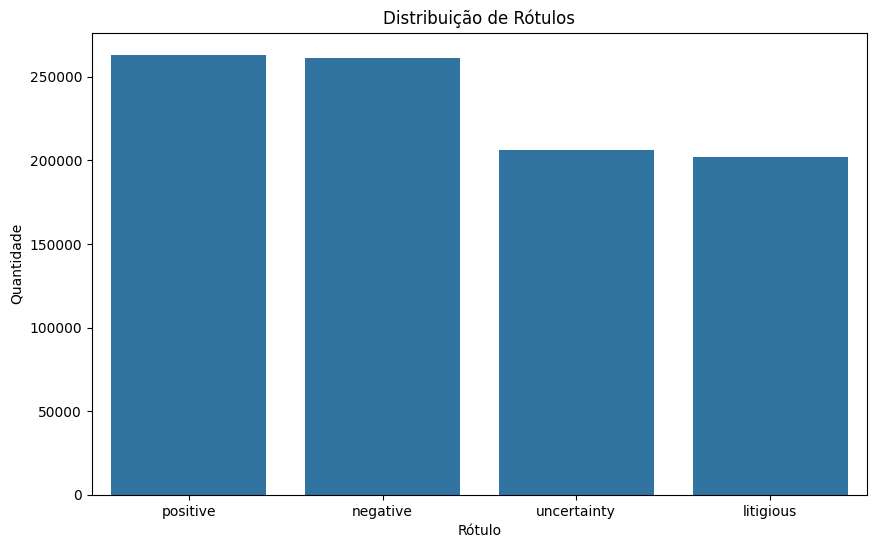
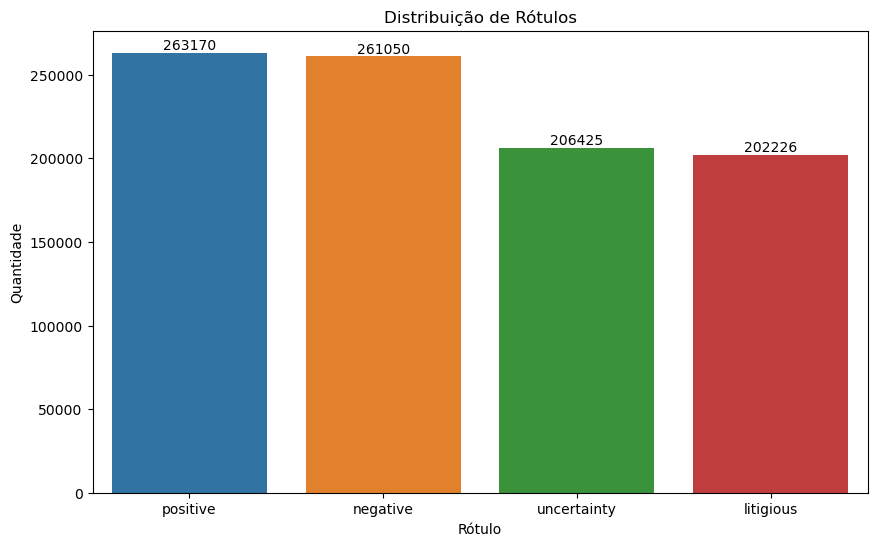
update section data clean and eda_00 classification graphics

diff --git a/docs/conhecendo-dados.md b/docs/conhecendo-dados.md
@@ -22,6 +22,47 @@ Abaixo está a estrutura do conjunto de dados:
 - A coluna **Label**, é responsável por categorizar os textos com seus respectivos sentimentos, possuímos 4 tipos de classificações possíveis, são elas:
 > `litigious`, `negative`, `positive` e     `uncertainty`.
 
+## Limpeza e Preparação dos Dados
+
+Antes de avançarmos com a análise, conduzimos uma etapa de pré-processamento dos dados, na qual removemos URLs, menções, hashtags e caracteres especiais dos textos usando expressões regulares.
+
+```python 
+# Aplicando a limpeza de texto na coluna 'Language'. Foram encontrados links de imagens, o que não é relevante para a análise
+df['Language'] = df['Language'].astype(str).apply(clean_text)
+
+df.drop(df[df['Language'].astype(str).apply(lambda x: len(x) > 3)].index, inplace=True)
+```
+
+> Uma expressão regular, também conhecida como regex, é uma sequência de caracteres que define um padrão de busca em textos. Ao usar expressões regulares, você pode realizar operações como encontrar padrões específicos em um texto, validar se uma string está formatada corretamente, extrair partes específicas de um texto, substituir partes de um texto por outras e muito mais.
+
+Adicionalmente, foi gerada uma nova coluna chamada `Clean_Text`, que contém o texto do Tweet limpo.
+
+```python 
+# Aplicando a limpeza de texto na coluna 'Text' para remover URLs, menções, hashtags, caracteres especiais e números
+df['Clean_Text'] = df['Text'].astype(str).apply(clean_text)
+```
+
+Além disso, tratamos valores ausentes na coluna `Language`, preenchendo-os com uma string vazia, e removemos duplicatas do conjunto de dados.
+
+```python 
+# Tratando valores ausentes na coluna 'Language', preenchendo com vazio ('') para evitar problemas na análise de texto
+df['Language'].fillna('', inplace=True)
+
+# Remoção de duplicatas
+df.drop_duplicates(inplace=True)
+```
+
+Como etapa adicional de engenharia de recursos, criamos duas novas colunas: `Text_Length` e `Word_Count`, que representam o comprimento do texto limpo e a contagem de palavras, respectivamente.
+
+```python 
+# Feature Engineering: Criando novas features com base no texto limpo 
+# Contagem de palavras e comprimento do texto
+df['Text_Length'] = df['Clean_Text'].apply(len)
+df['Word_Count'] = df['Clean_Text'].apply(lambda x: len(x.split()))  
+```
+
+Com o conjunto de dado, devidamente tratado, partimos para a etapa de análise do data set selecionado.
+
 ## Análise Univariada
 
 O gráfico abaixo ilustra a distribuição da quantidade de tweets por idioma, considerando os 5 idiomas com mais informações no conjunto de dados.
@@ -34,23 +75,10 @@ Para gerar essas informações, foi realizada a análise exploratório de dados(
 
 Esse método, consiste em se concentrar na análise de uma única variável por vez. Em outras palavras, ela examina as características e distribuição de uma variável isoladamente, sem considerar sua relação com outras variáveis. Neste caso, é utilizado a informação do idioma, para calcular sua respectiva quantidade de tweets.
 
-```
-Gráfico: Distribuição de Rótulos
-Tipo: Gráfico de barras
+Utilizando o mesmo processo de análise, o gráfico abaixo ilustra a distribuição dos rótulos no conjunto de dados.
 
-```
 ![Distribuição de Rótulos](img/distribuicao_rotulos.png)
-
-Este gráfico de barras apresenta a distribuição dos rótulos no conjunto de dados. Observamos que os rótulos estão relativamente equilibrados, com uma quantidade semelhante de tweets classificados como "positive", "negative", "litigious" e "uncertainty".
-
-
-## Limpeza e Preparação dos Dados
-
-Antes de prosseguir com a análise, realizamos uma etapa de limpeza e preparação dos dados. Removemos URLs, menções, hashtags e caracteres especiais dos textos, utilizando expressões regulares. Também criamos uma nova coluna `Clean_Text` contendo o texto limpo.
-
-Além disso, tratamos valores ausentes na coluna `Language`, preenchendo-os com uma string vazia, e removemos duplicatas do conjunto de dados.
-
-Como etapa adicional de engenharia de recursos, criamos duas novas colunas: `Text_Length` e `Word_Count`, que representam o comprimento do texto limpo e a contagem de palavras, respectivamente.
+>*Gráfico: Distribuição de Rótulos*
 
 ## Análise Bivariada
 
@@ -79,39 +107,6 @@ Para identificar outliers no comprimento dos textos, utilizamos os quantis 0.05 
 Identificamos 88.239 outliers com base no comprimento do texto. Ao analisar a distribuição desses outliers por rótulo, observamos que a maioria pertence às categorias "negative" e "positive".
 
 Posteriormente, removemos os outliers do conjunto de dados, mantendo apenas 5% dos dados com menor e maior comprimento de texto.
-
-## Análise de Balanceamento de Rótulos por Idioma
-
-Realizamos uma análise detalhada do balanceamento de rótulos por idioma, calculando a proporção de cada rótulo para cada idioma presente no conjunto de dados.
-
-Observamos que alguns idiomas apresentam uma distribuição relativamente equilibrada de rótulos, enquanto outros têm uma predominância significativa de um ou dois rótulos específicos. Essa análise pode ser importante para avaliar a necessidade de técnicas de balanceamento de dados ou estratégias de treinamento específicas para determinados idiomas.
-
-## Seleção de Dados para Análise Adicional
-
-Com base nos insights obtidos, decidimos focar nossa análise adicional apenas em postagens em inglês com rótulos "positive" e "negative". Essa escolha foi motivada por várias razões:
-
-1. **Padronização Linguística**: O inglês é amplamente utilizado em dados de mídia social e fornece uma base consistente para análise, minimizando a complexidade associada ao processamento de múltiplos idiomas.
-
-2. **Disponibilidade de Ferramentas**: Existem muitas bibliotecas e ferramentas de processamento de linguagem natural (PLN) otimizadas para o inglês, facilitando a aplicação de técnicas avançadas.
-
-3. **Análise de Sentimentos Claramente Definida**: Os rótulos "positive" e "negative" representam sentimentos claramente definidos e opostos, tornando-os ideais para uma análise de sentimentos binária.
-
-4. **Relevância e Aplicabilidade**: Focar em postagens positivas e negativas permite identificar tendências e padrões significativos no sentimento do público, o que é valioso para organizações e pesquisadores.
-
-Após a seleção, verificamos que o conjunto de dados filtrado contém 247.254 tweets positivos e 243.139 tweets negativos, representando um balanceamento adequado para a análise.
-
-## Remoção de Stopwords
-
-Como próxima etapa, removemos as stopwords em inglês dos textos limpos, utilizando a lista fornecida pela biblioteca NLTK. Essa etapa é importante para reduzir o ruído nos dados e focar nas palavras mais significativas.
-
-```
-Gráfico: Distribuição dos Sentimentos nos Textos em Inglês
-Tipo: Gráfico de barras
-
-```
-![Distribuição dos Sentimentos nos Textos em Inglês](img/distribuicao_sentimentos_textos_ingles.png)
-
-Este gráfico de barras reforça o balanceamento entre os rótulos "positive" e "negative" após a filtragem dos dados.
 
 ## Word Cloud
 
@@ -199,6 +194,10 @@ O gráfico de densidade complementa a análise do comprimento dos textos, fornec
 
 ## Descrição dos Achados
 
+Realizamos uma análise detalhada do balanceamento de rótulos por idioma, calculando a proporção de cada rótulo para cada idioma presente no conjunto de dados.
+
+Observamos que alguns idiomas apresentam uma distribuição relativamente equilibrada de rótulos, enquanto outros têm uma predominância significativa de um ou dois rótulos específicos. Essa análise pode ser importante para avaliar a necessidade de técnicas de balanceamento de dados ou estratégias de treinamento específicas para determinados idiomas.
+
 A partir da análise descritiva e exploratória realizada, destacamos os seguintes achados relevantes:
 
 1. O conjunto de dados original apresentava um equilíbrio razoável entre os diferentes rótulos ("positive", "negative", "litigious" e "uncertainty"), o que é uma característica desejável para a análise de sentimentos.
@@ -207,17 +206,23 @@ A partir da análise descritiva e exploratória realizada, destacamos os seguint
 
 3. Após a limpeza e preparação dos dados, identificamos outliers com base no comprimento do texto. Esses outliers foram removidos para evitar que influenciassem negativamente a análise.
 
-4. A análise de balanceamento de rótulos por idioma revelou que alguns idiomas apresentavam uma distribuição mais equilibrada, enquanto outros tinham uma predominância significativa de um ou dois rótulos específicos.
+4. A análise de balanceamento de rótulos por idioma revelou que alguns idiomas apresentavam uma distribuição mais equilibrada, enquanto outros tinham uma predominância significativa de um ou dois rótulos específicos. 
 
 5. Para a análise adicional, selecionamos tweets em inglês com rótulos "positive" e "negative", uma vez que esses rótulos representam sentimentos claramente definidos e opostos, além de facilitar o uso de ferramentas de PLN otimizadas para o inglês.
 
-6. As Word Clouds nos permitiram identificar visualmente as palavras mais proeminentes nos tweets positivos e negativos, fornecendo insights sobre os tópicos e contextos comuns em cada sentimento.
+6. A análise de frequência de palavras e bigramas complementou os insights obtidos pelas Word Clouds, quantificando as palavras e combinações mais frequentes nos textos.
 
-7. A análise de frequência de palavras e bigramas complementou os insights obtidos pelas Word Clouds, quantificando as palavras e combinações mais frequentes nos textos.
+7. A análise de densidade e distribuição do comprimento dos textos revelou a distribuição subjacente dos dados, permitindo identificar eventuais desvios ou assimetrias.
 
-8. Exploramos a relação entre o comprimento do texto e o sentimento, observando se havia uma tendência de textos mais longos ou mais curtos serem associados a um sentimento específico.
+Com base nos insights obtidos, decidimos focar nossa análise adicional apenas em postagens em inglês com rótulos "positive" e "negative". Essa escolha foi motivada por várias razões:
 
-9. A análise de densidade e distribuição do comprimento dos textos revelou a distribuição subjacente dos dados, permitindo identificar eventuais desvios ou assimetrias.
+1. **Padronização Linguística**: O inglês é amplamente utilizado em dados de mídia social e fornece uma base consistente para análise, minimizando a complexidade associada ao processamento de múltiplos idiomas.
+
+2. **Disponibilidade de Ferramentas**: Existem muitas bibliotecas e ferramentas de processamento de linguagem natural (PLN) otimizadas para o inglês, facilitando a aplicação de técnicas avançadas.
+
+3. **Análise de Sentimentos Claramente Definida**: Os rótulos "positive" e "negative" representam sentimentos claramente definidos e opostos, tornando-os ideais para uma análise de sentimentos binária.
+
+4. **Relevância e Aplicabilidade**: Focar em postagens positivas e negativas permite identificar tendências e padrões significativos no sentimento do público, o que é valioso para organizações e pesquisadores.
 
 Esses achados fornecem uma compreensão sólida sobre a estrutura e características do conjunto de dados, preparando-nos para etapas subsequentes de análise e modelagem.
 
